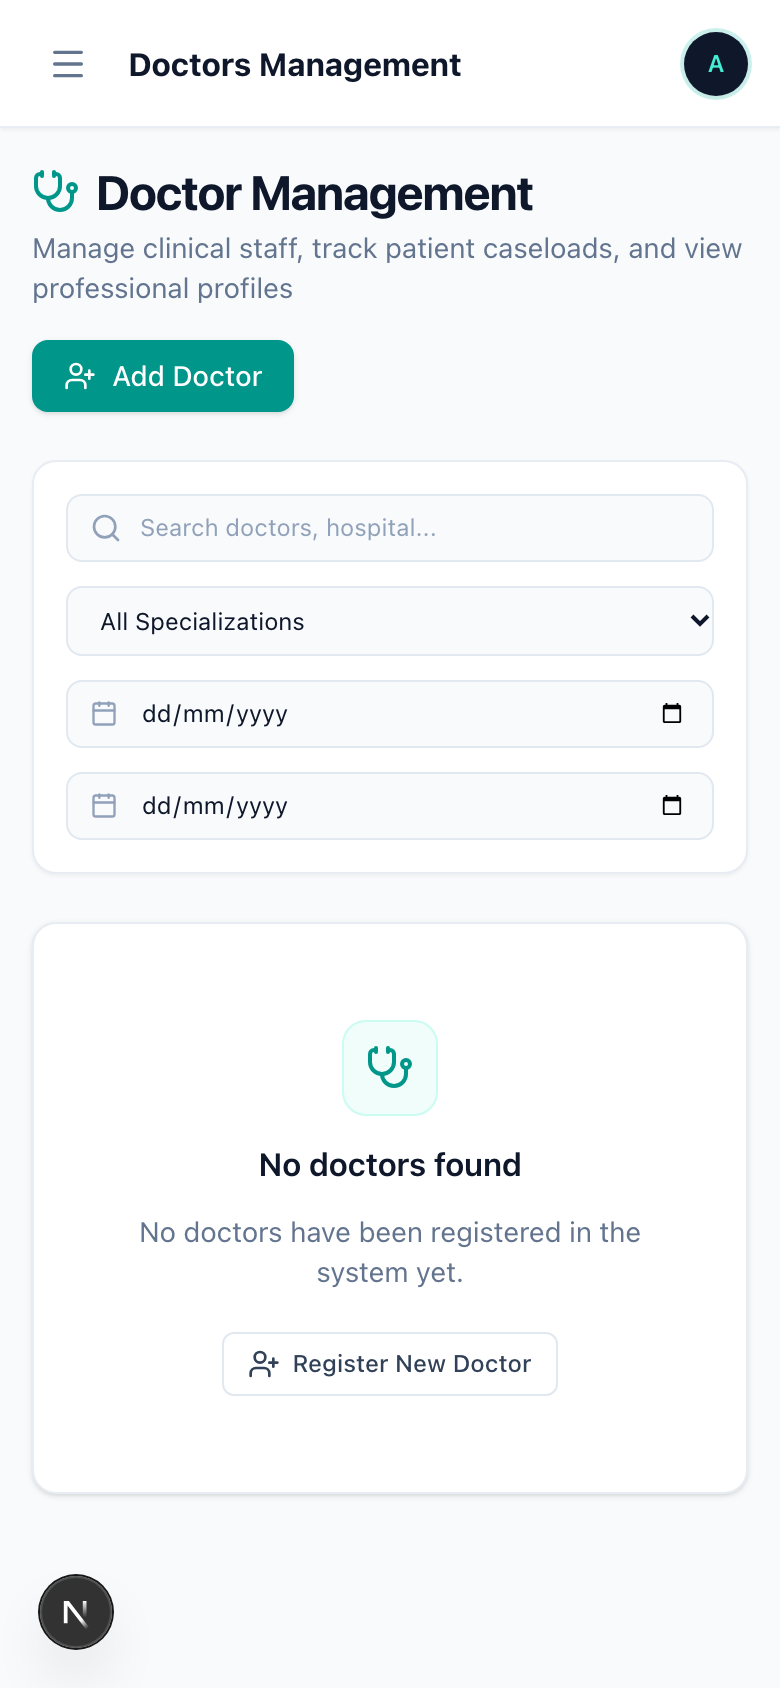
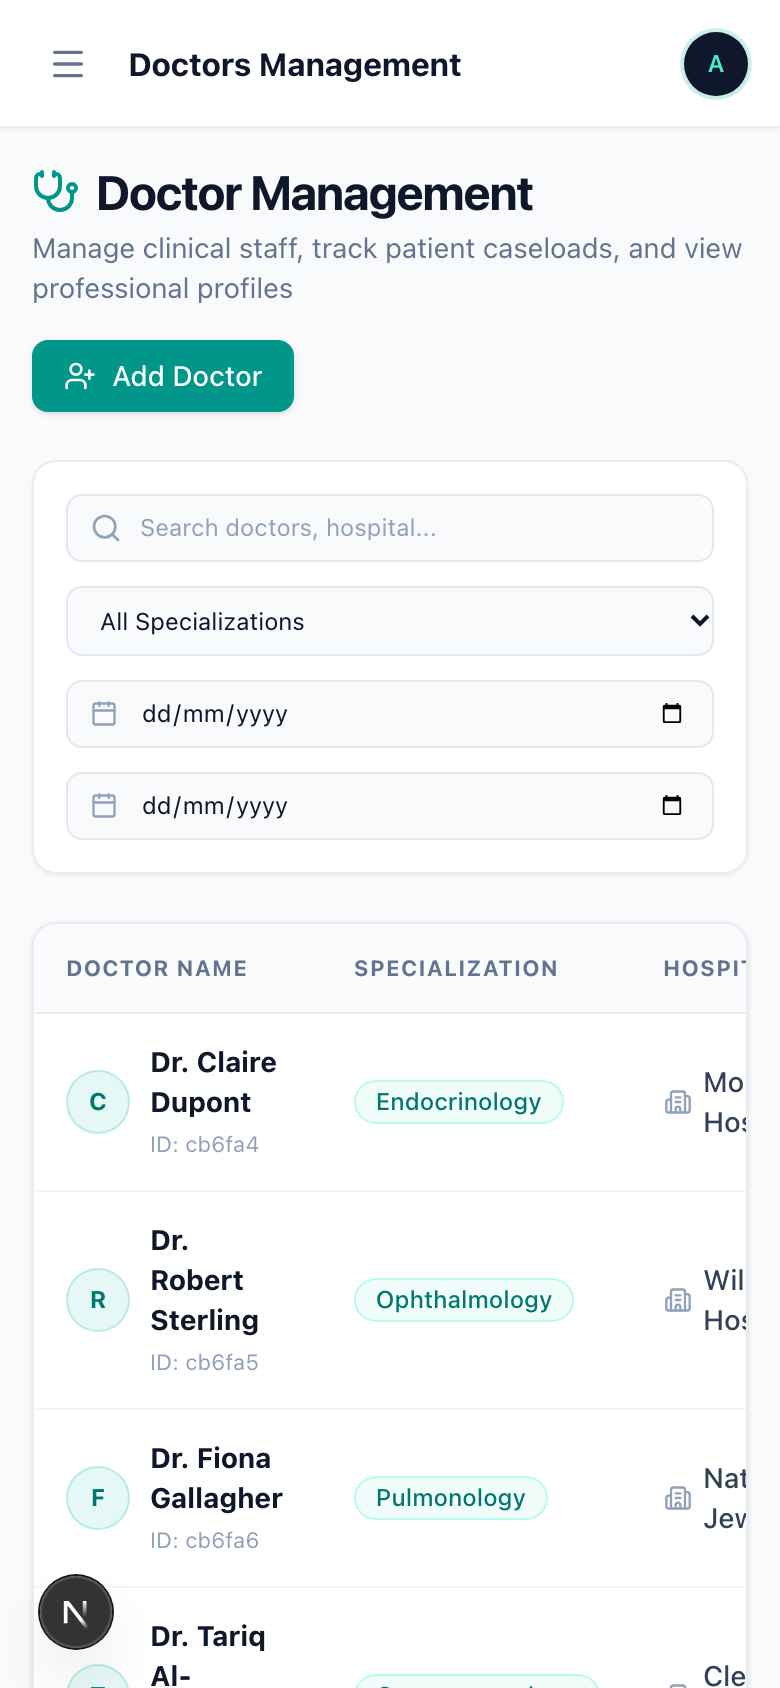
fix(views): correct API response payload unpacking in doctor and patient lists
Fix regression where frontend state setters were unpacking data.data.doctors
instead of data.data, causing directory tables and roster lists to render
empty states despite populated database records.

 - Update DoctorsPage to consume data.data array directly with fallback

 - Update PatientsPage to consume data.data array directly with fallback

 - Fix doctor and patient roster payload mapping in profile and edit forms

 - Refresh visual evidence screenshots demonstrating active directories

diff --git a/src/app/(dashboard)/patients/new/page.tsx b/src/app/(dashboard)/patients/new/page.tsx
@@ -57,13 +57,14 @@ function NewPatientForm() {
         setIsLoadingDoctors(true);
         const res = await fetch("/api/doctors?limit=50");
         const data = await res.json();
-        if (data.success && data.data?.doctors) {
-          setDoctors(data.data.doctors);
+        const doctorsList = Array.isArray(data.data) ? data.data : data.data?.doctors || [];
+        if (data.success && doctorsList.length > 0) {
+          setDoctors(doctorsList);
           // If no doctor selected yet and preselected is not available, default to first doctor
-          if (!preselectedDoctorId && data.data.doctors.length > 0) {
+          if (!preselectedDoctorId && doctorsList.length > 0) {
             setFormData((prev) => ({
               ...prev,
-              doctorId: prev.doctorId || data.data.doctors[0]._id,
+              doctorId: prev.doctorId || doctorsList[0]._id,
             }));
           }
         }

diff --git a/src/app/(dashboard)/doctors/[id]/page.tsx b/src/app/(dashboard)/doctors/[id]/page.tsx
@@ -110,8 +110,9 @@ function DoctorProfileContent() {
       if (!res.ok || !data.success) {
         throw new Error(data.message || "Failed to load assigned patients");
       }
-      setPatients(data.data.patients || []);
-      setPagination(data.data.pagination || null);
+      const patientsList = Array.isArray(data.data) ? data.data : data.data?.patients || [];
+      setPatients(patientsList);
+      setPagination(data.pagination || data.data?.pagination || null);
     } catch (err: any) {
       toast.error(err.message || "Could not fetch patients roster");
     } finally {

diff --git a/src/app/(dashboard)/patients/[id]/edit/page.tsx b/src/app/(dashboard)/patients/[id]/edit/page.tsx
@@ -69,8 +69,9 @@ function EditPatientContent() {
         throw new Error(patientData.message || "Failed to load patient record");
       }
 
-      if (doctorsData.success && doctorsData.data?.doctors) {
-        setDoctors(doctorsData.data.doctors);
+      const docsList = Array.isArray(doctorsData.data) ? doctorsData.data : doctorsData.data?.doctors || [];
+      if (doctorsData.success && docsList.length > 0) {
+        setDoctors(docsList);
       }
 
       const p = patientData.data;

diff --git a/src/app/(dashboard)/patients/page.tsx b/src/app/(dashboard)/patients/page.tsx
@@ -87,9 +87,10 @@ function PatientsContent() {
         throw new Error(data.message || "Failed to load patients list");
       }
 
-      setPatients(data.data.patients || []);
+      const patientsList = Array.isArray(data.data) ? data.data : data.data?.patients || [];
+      setPatients(patientsList);
       setPagination(
-        data.data.pagination || {
+        data.pagination || data.data?.pagination || {
           page: 1,
           totalPages: 1,
           totalDocs: 0,

diff --git a/src/app/(dashboard)/doctors/page.tsx b/src/app/(dashboard)/doctors/page.tsx
@@ -85,9 +85,10 @@ function DoctorsContent() {
         throw new Error(data.message || "Failed to load doctors list");
       }
 
-      setDoctors(data.data.doctors || []);
+      const doctorsList = Array.isArray(data.data) ? data.data : data.data?.doctors || [];
+      setDoctors(doctorsList);
       setPagination(
-        data.data.pagination || {
+        data.pagination || data.data?.pagination || {
           page: 1,
           totalPages: 1,
           totalDocs: 0,
